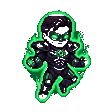
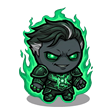
Improve Boss VS portraits/names, hand-drawn character menu text, top-left active item & compact HUD

diff --git a/README.md b/README.md
@@ -25,11 +25,11 @@ Mod de **Green Lantern (Hal Jordan)** y su versión Tainted (**The Butcher of Oa
 
 | Nombre | Tipo | Descripción |
 | :--- | :--- | :--- |
-| **Power Battery** | Activo (Pocket) | Recarga la barra de Willpower de Hal Jordan. |
+| **Power Battery** | Activo (Inicial) | Recarga la barra de Willpower de Hal Jordan o activa *Overcharge*. |
 | **Construct: Giant Fist** | Activo | Invoca un puño gigante de luz sólida que golpea y empuja enemigos. |
 | **Solid Light Shield** | Pasivo | Orbital de luz sólida que bloquea proyectiles y daña al contacto. |
-| **The Tragedy of Coast City** | Pasivo | Al perder corazones en una sala activa el estado *Parallax* (+Daño masivo y lágrimas de miedo). |
-| **Yellow Impurity** | Trinket | Los enemigos con *Fear* sueltan chispas de energía al morir; penaliza contra enemigos amarillos/campeones. |
+| **The Tragedy of Coast City** | Activo (Tainted) | Invoca el constructo de Coast City al llenar las chispas esmeralda. |
+| **Yellow Impurity** | Trinket | Incrementa el daño x1.5, pero los impactos recibidos pueden causar *Fear*. |
 
 ---
 
@@ -44,10 +44,10 @@ green_lantern_mod/
 │   ├── items.xml                     # Definición de los 4 ítems
 │   ├── trinkets.xml                  # Definición del trinket Yellow Impurity
 │   └── gfx/                          # Gráficos y animaciones del menú de selección de personaje
-│       ├── hal_charactermenu.png     # Sprite de Hal Jordan en la rueda de selección (160x160)
-│       ├── tainted_charactermenu.png # Sprite de Tainted Hal en la rueda de selección (160x160)
-│       ├── charactermenu.png         # Hoja de texto/stats del menú normal (512x512)
-│       ├── charactermenualt.png      # Hoja de texto/stats del menú Tainted (512x512)
+│       ├── hal_charactermenu.png     # Sprite y textos de Hal Jordan en el menú (160x160)
+│       ├── tainted_charactermenu.png # Sprite y textos de Tainted Hal en el menú (160x160)
+│       ├── charactermenu.png         # Hoja base del menú normal (512x512)
+│       ├── charactermenualt.png      # Hoja base del menú Tainted (512x512)
 │       ├── characterportraits.anm2   # Animación del retrato en el menú normal
 │       ├── characterportraitsalt.anm2# Animación del retrato en el menú Tainted
 │       ├── charactermenu.anm2        # Animación del nombre/stats en el menú normal
@@ -69,10 +69,10 @@ green_lantern_mod/
         │       └── trinket_yellow_impurity.png
         └── ui/
             ├── boss/                 # Pantalla VS contra jefes y racha de victoria
-            │   ├── portrait_hal_jordan.png   # Retrato grande de Hal Jordan (192x192)
-            │   ├── portrait_tainted_hal.png  # Retrato grande de Tainted Hal (192x192)
-            │   ├── name_hal_jordan.png       # Letrero con el nombre de Hal Jordan (256x64)
-            │   └── name_tainted_hal.png      # Letrero con el nombre de Tainted Hal (256x64)
+            │   ├── portrait_hal_jordan.png   # Retrato de Hal Jordan en pantalla VS (112x78)
+            │   ├── portrait_tainted_hal.png  # Retrato de Tainted Hal en pantalla VS (112x78)
+            │   ├── name_hal_jordan.png       # Letrero con el nombre de Hal Jordan (192x64)
+            │   └── name_tainted_hal.png      # Letrero con el nombre de Tainted Hal (192x64)
             └── stage/                # Transición de pesadilla entre pisos (112x112)
                 ├── stage_hal_jordan.png
                 └── stage_tainted_hal.png
